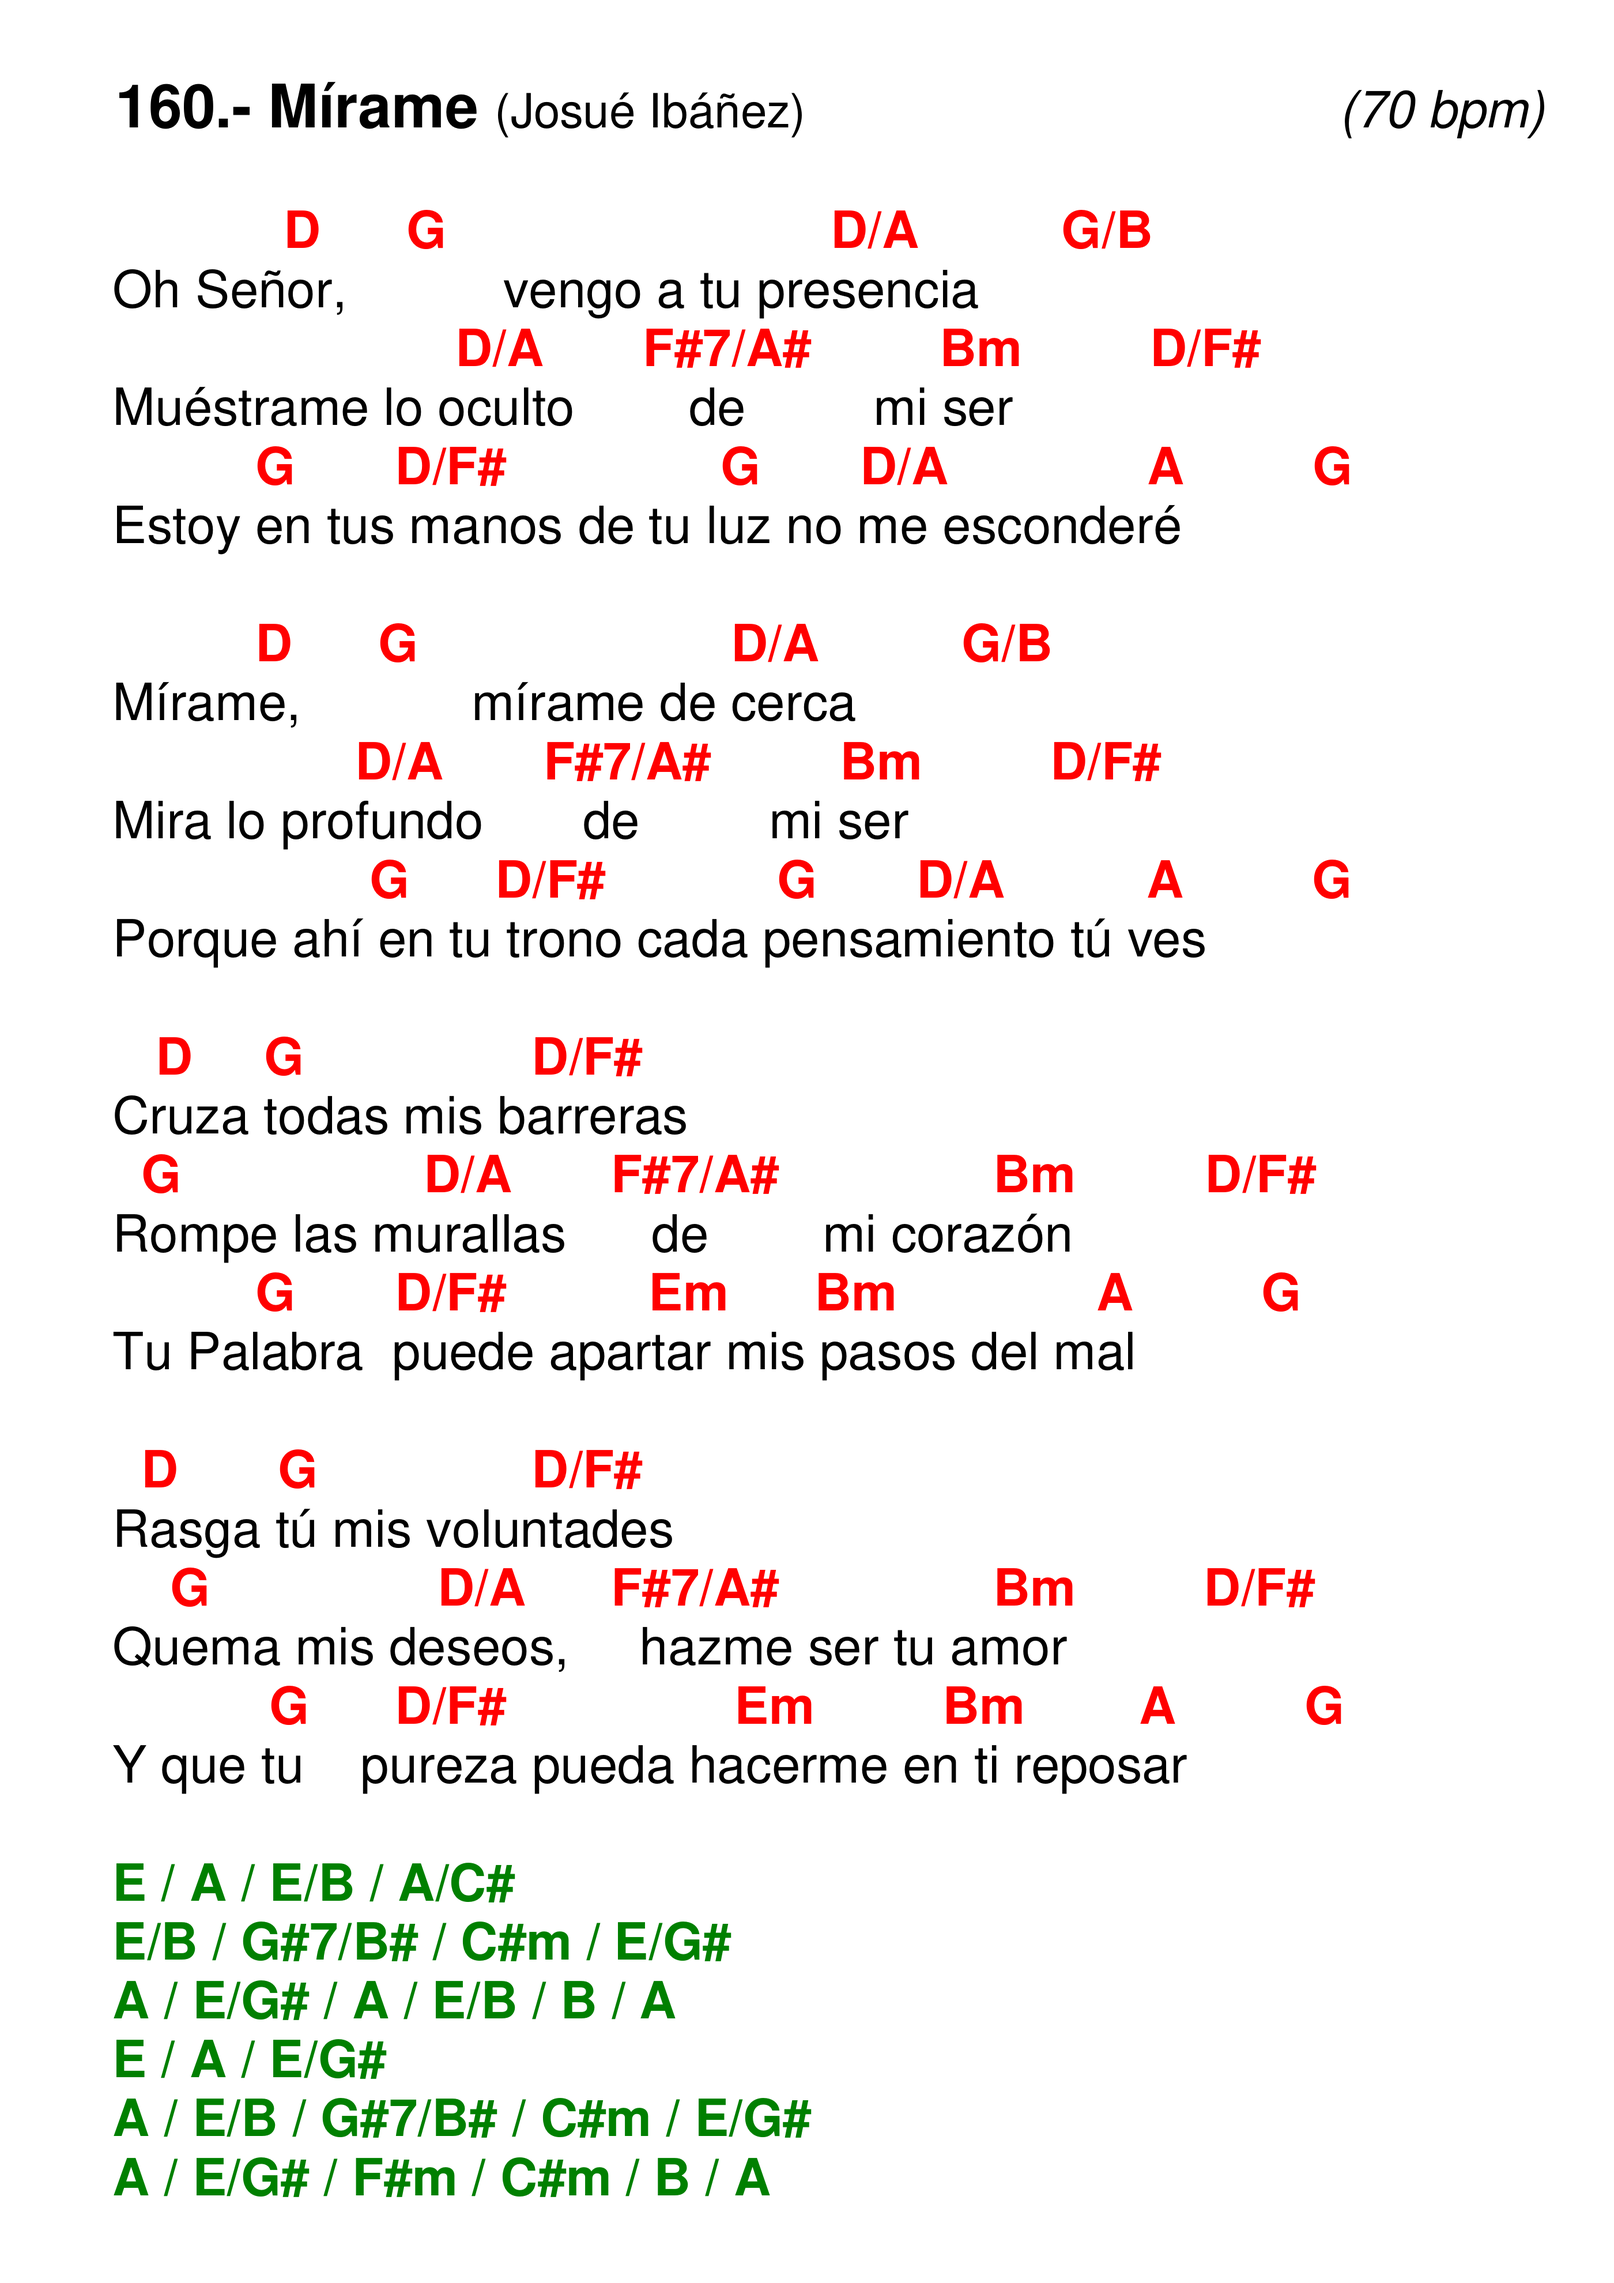
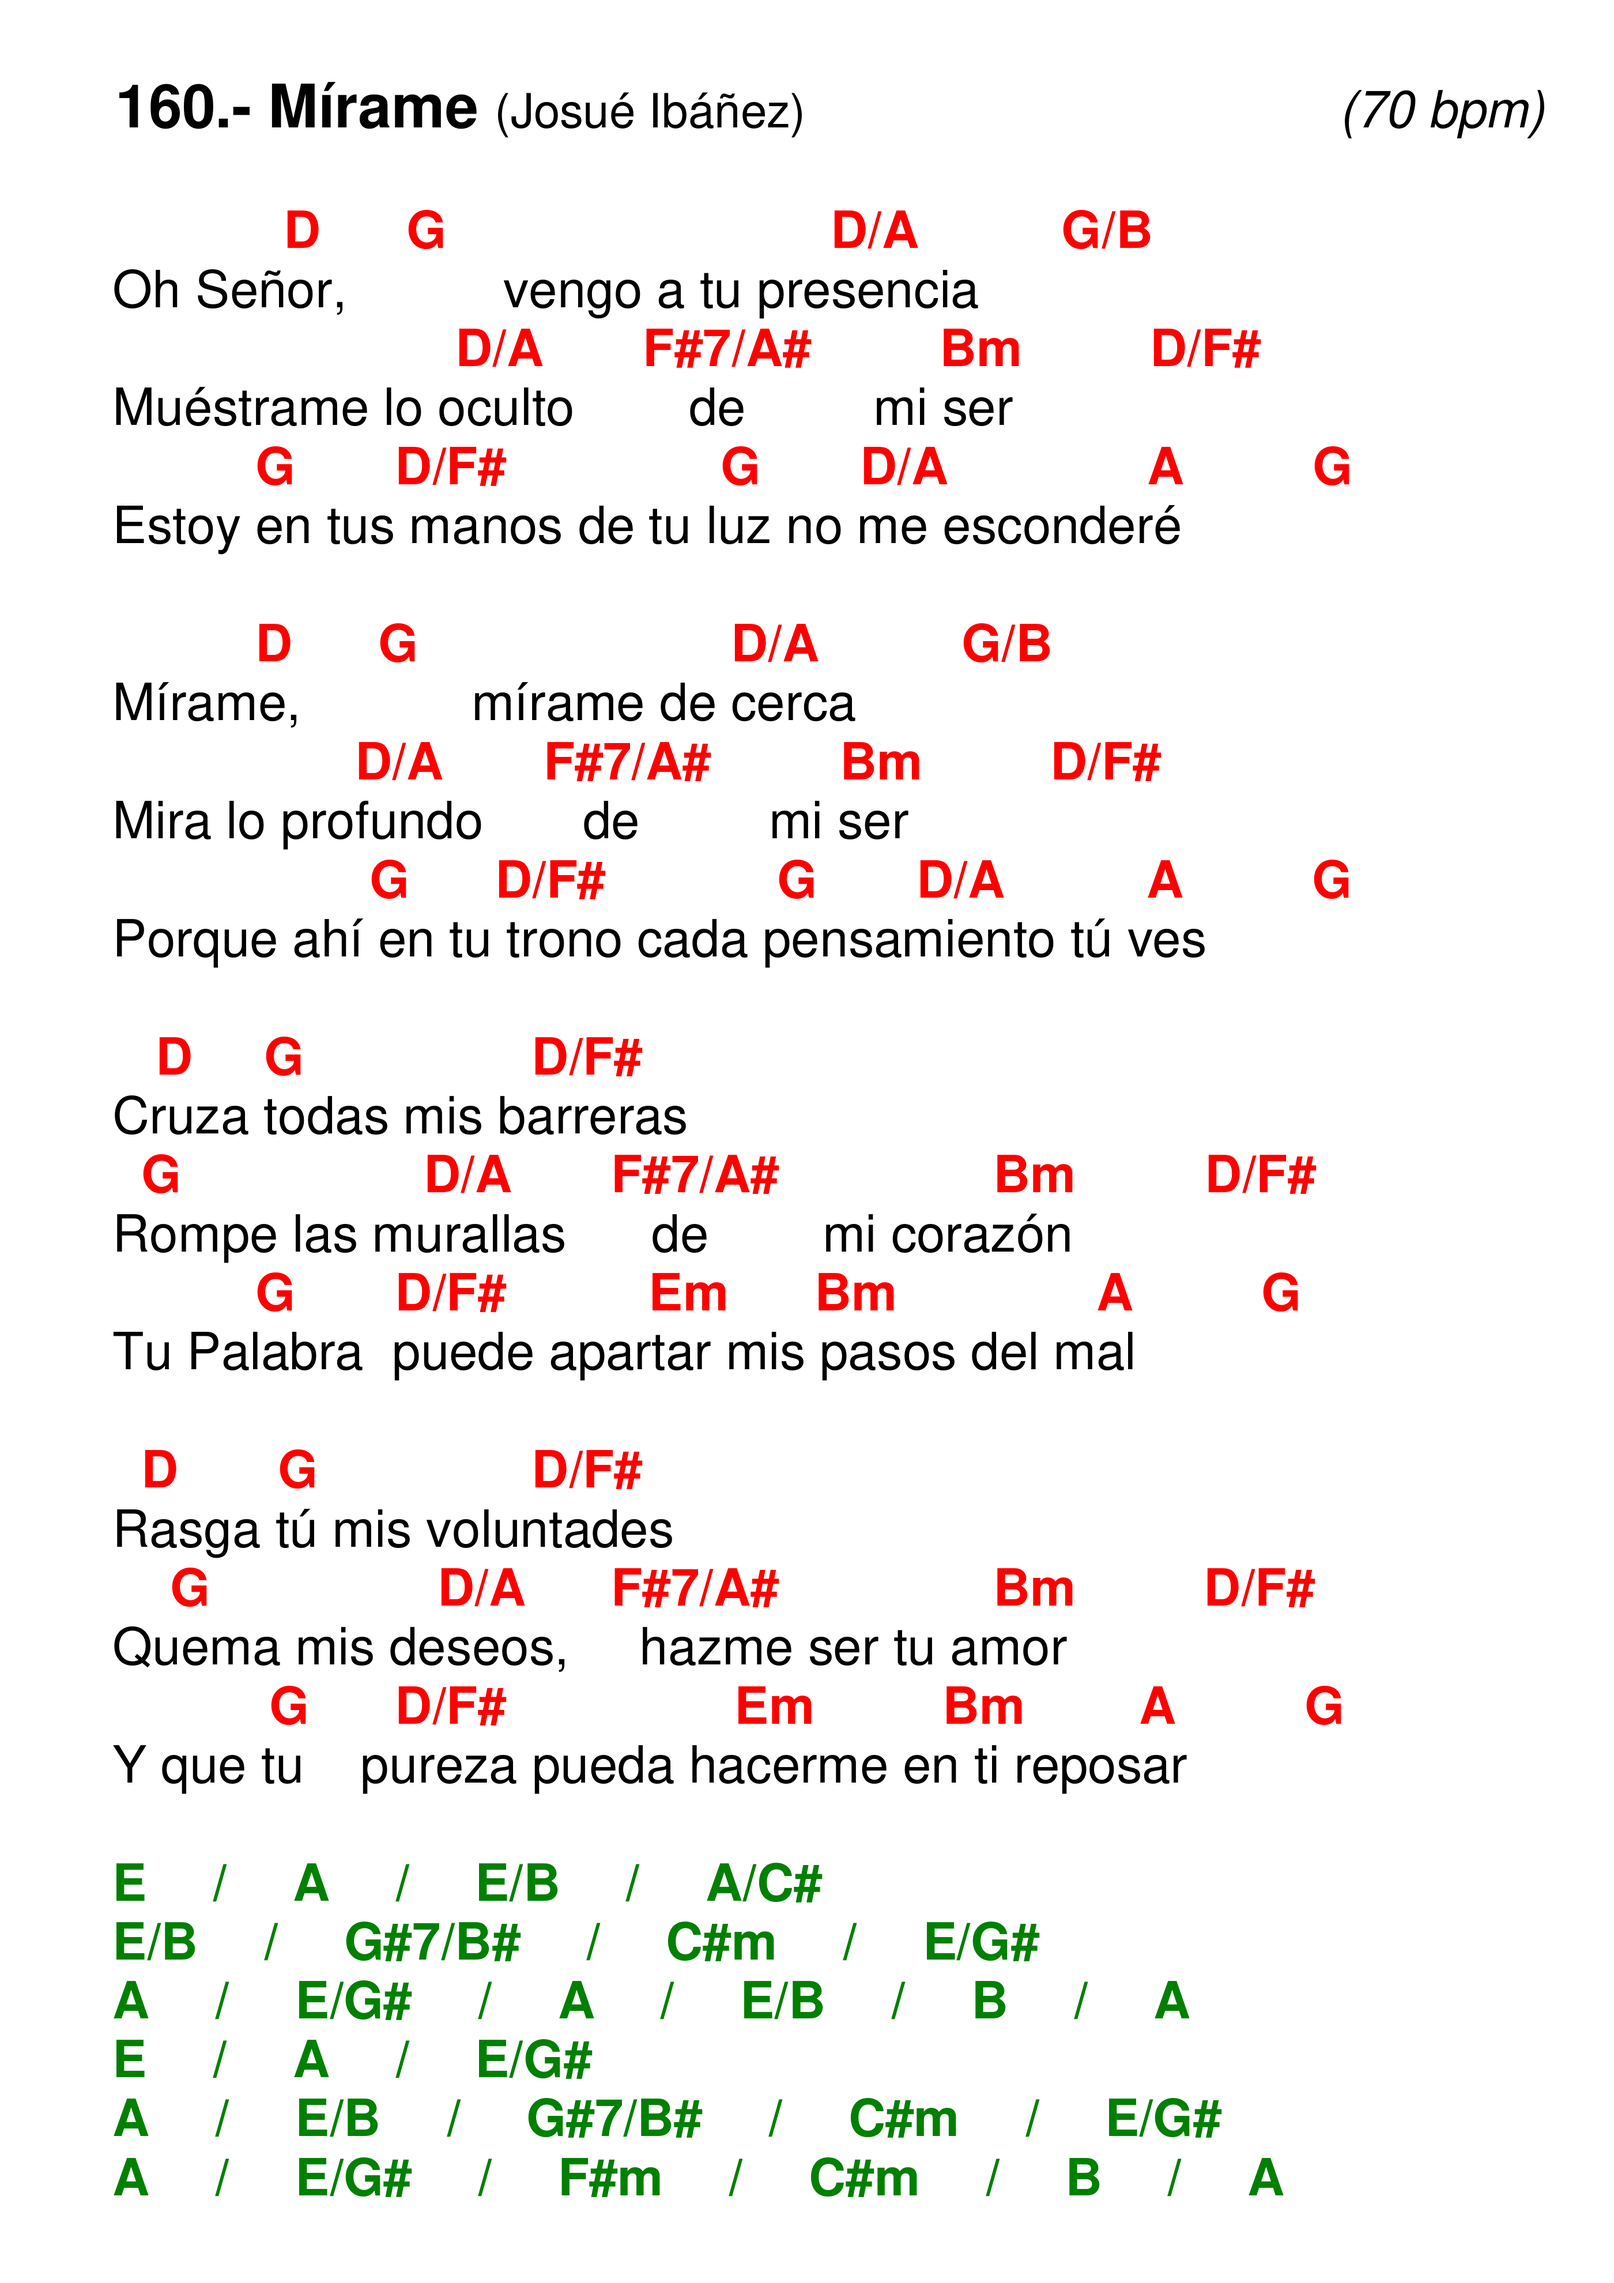
1.28.0: la app se llama Himnario NC + acordes verdes más separados
- Nombre de la app instalada: Himnario NC (manifiesto e index.html; id "/" igual, se actualiza sola sin reinstalar).
- Compañerismo: en Mírame (160) y Damos honor (169) los acordes verdes con más espacio alrededor de cada " / " para no confundirlos con los acordes con bajo (E/B).

diff --git a/index.html b/index.html
@@ -3,13 +3,13 @@
   <head>
     <meta charset="UTF-8" />
     <meta name="viewport" content="width=device-width, initial-scale=1.0, maximum-scale=1.0, minimum-scale=1.0, user-scalable=no, viewport-fit=cover, interactive-widget=resizes-content" />
-    <title>Himnario 2026</title>
-    <meta name="description" content="Himnario 2026 — himnos y minutas, también sin internet" />
+    <title>Himnario NC</title>
+    <meta name="description" content="Himnario NC — himnos y minutas, también sin internet" />
 
     <meta name="mobile-web-app-capable" content="yes" />
     <meta name="apple-mobile-web-app-capable" content="yes" />
     <meta name="apple-mobile-web-app-status-bar-style" content="default" />
-    <meta name="apple-mobile-web-app-title" content="Himnario 2026" />
+    <meta name="apple-mobile-web-app-title" content="Himnario NC" />
     <link rel="apple-touch-icon" href="/icono-v5-apple-180.png" />
     <meta name="theme-color" content="#ffffff" />
     <link rel="icon" type="image/png" href="/icono-v5-64.png" />

diff --git a/vite.config.ts b/vite.config.ts
@@ -10,9 +10,9 @@ import { COLORES_TEMA, FONDOS, archivoManifiesto } from "./src/lib/colores";
 // y la app enlaza el que corresponde al tema elegido (ver index.html y src/hooks/useTheme.ts).
 const manifiesto: Partial<ManifestOptions> = {
   id: "/",
-  name: "Himnario 2026",
-  short_name: "Himnario 2026",
-  description: "Himnario 2026 — himnos y minutas, también sin internet",
+  name: "Himnario NC",
+  short_name: "Himnario NC",
+  description: "Himnario NC — himnos y minutas, también sin internet",
   lang: "es",
   start_url: "/",
   scope: "/",
